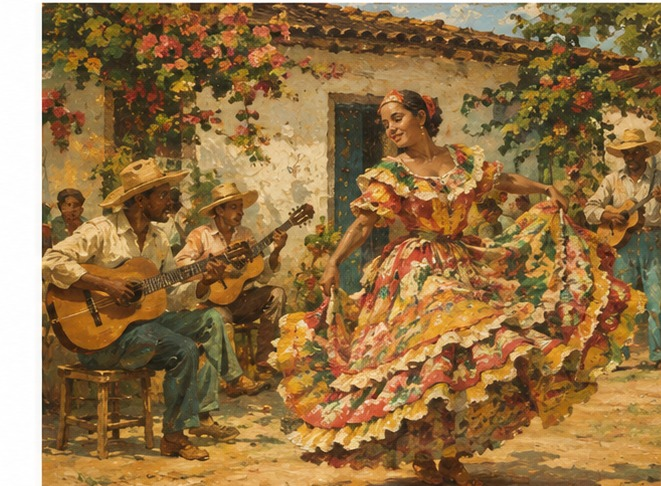
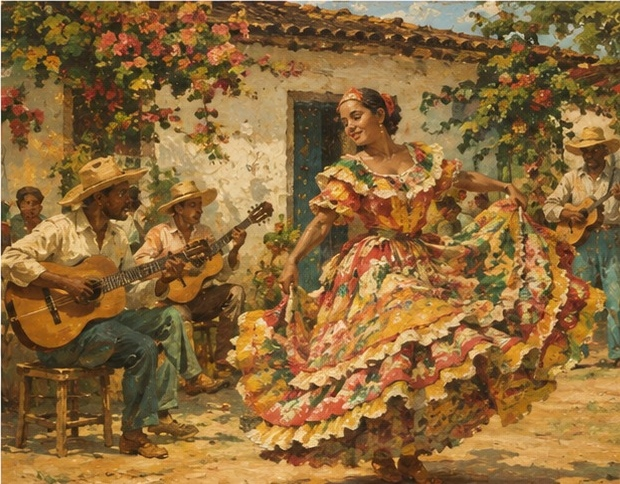
fix: ajustar corte das imagens e atualizar estilos

diff --git a/css/style.css b/css/style.css
@@ -154,9 +154,6 @@ nav a.active {
     background-color: #ffffff;
 }
 
-/* =========================
-   GALERIA DE IMAGENS
-========================= */
 
 .galeria {
     flex: 1;
@@ -177,9 +174,6 @@ nav a.active {
     border-radius: 12px;
 }
 
-/* =========================
-   BOTÕES
-========================= */
 
 .hero-botoes {
     display: flex;
@@ -217,7 +211,6 @@ nav a.active {
     opacity: 1;
 }
 
-/* Botão centralizado na página inteira */
 
 .hero-sobre .hero-botoes {
     position: absolute;
@@ -261,9 +254,6 @@ nav a.active {
     background-color: #7eeac3;
 }
 
-/* =========================
-   TIPOS MUSICAIS
-========================= */
 
 .tipos {
     max-width: 900px;
@@ -332,12 +322,11 @@ nav a.active {
     margin-top: 15px;
 }
 
-/* Estrelas e formatação do container e título */
 .tabela-container {
     max-width: 900px;
     margin: 50px auto;
     padding: 0 20px;
-    font-family: 'Times New Roman', Times, serif; /* Estilo clássico/serifado semelhante ao da imagem */
+    font-family: 'Times New Roman', Times, serif; 
     text-align: center;
 }
 
@@ -348,25 +337,24 @@ nav a.active {
     color: #000000;
 }
 
-/* Estrutura principal da tabela */
 .tabela-subdivisoes {
     width: 60%;
     margin: 0 auto;
     margin-top: 30px;
     margin-bottom: 30px;
     border-collapse: collapse;
-    border: 2px solid #000000; /* Borda exterior mais marcada */
+    border: 2px solid #000000; 
     background-color: #ffffff;
 }
 
-/* Estilização das células (cabeçalhos e dados) */
+
 .tabela-subdivisoes th, 
 .tabela-subdivisoes td {
-    border: 3px solid #000000; /* Linhas internas finas pretas */
+    border: 3px solid #000000; 
     padding: 25px 20px;
 }
 
-/* Estilo específico para o cabeçalho da tabela (th) */
+
 .tabela-subdivisoes th {
     font-size: 1.3rem;
     font-weight: bold;
@@ -374,17 +362,14 @@ nav a.active {
     text-align: center;
 }
 
-/* Estilo específico para o conteúdo das colunas (td) */
+
 .tabela-subdivisoes td {
     font-size: 1rem;
     line-height: 1.6;
-    text-align: justify; /* Alinhamento fluido do texto dentro da caixa */
+    text-align: justify; 
     vertical-align: top;
 }
 
-/* =========================
-   GÊNEROS MUSICAIS
-========================= */
 
 .generos {
     max-width: 900px;
@@ -408,9 +393,7 @@ nav a.active {
     margin: 0 auto;
 }
 
-/* =========================
-   CRÉDITOS
-========================= */
+
 
 .creditos {
     margin: 40px 10px 20px;
@@ -438,9 +421,7 @@ nav a.active {
     margin-bottom: 24px;
 }
 
-/* =========================
-   CAPA DA TURMA & CURSO
-========================= */
+
 
 .creditos-badge {
     display: inline-block;

diff --git a/css/sobreEtec.css b/css/sobreEtec.css
@@ -1,4 +1,3 @@
-
 /* ---------- Importação de Fonte ---------- */
 @import url('https://fonts.googleapis.com/css2?family=Inter:wght@300;400;500;600;700&display=swap');
 
@@ -209,8 +208,8 @@
     font-size: 0.9rem;
     font-weight: 600;
     transition: transform var(--etec-transition, 0.35s ease),
-                box-shadow var(--etec-transition, 0.35s ease),
-                border-color var(--etec-transition, 0.35s ease);
+        box-shadow var(--etec-transition, 0.35s ease),
+        border-color var(--etec-transition, 0.35s ease);
     min-width: 140px;
 }
 
@@ -243,4 +242,3 @@
         max-width: 260px;
     }
 }
-

diff --git a/css/creditos.css b/css/creditos.css
@@ -5,9 +5,6 @@
     width: 100%;
 }
 
-/* =========================================
-   1. CABEÇALHO INSTITUCIONAL COM LOGO DO CURSO
-   ========================================= */
 
 .cr-header {
     margin-bottom: 48px;
@@ -53,7 +50,6 @@
     display: block;
 }
 
-/* Quando o arquivo de logo ainda não existir, oculta a caixinha automaticamente sem quebrar o layout */
 .cr-header-logo-box.cr-logo-placeholder {
     display: none;
 }
@@ -355,7 +351,7 @@
     margin-top: auto;
 }
 
-/* Espaçador moderado entre as duas seções */
+
 .cr-espaco-secoes {
     height: 48px;
 }

diff --git a/css/importancia.css b/css/importancia.css
@@ -5,9 +5,6 @@
     width: 100%;
 }
 
-/* =========================================
-   CABEÇALHO DA PÁGINA
-   ========================================= */
 
 .imp-header {
     text-align: center;
